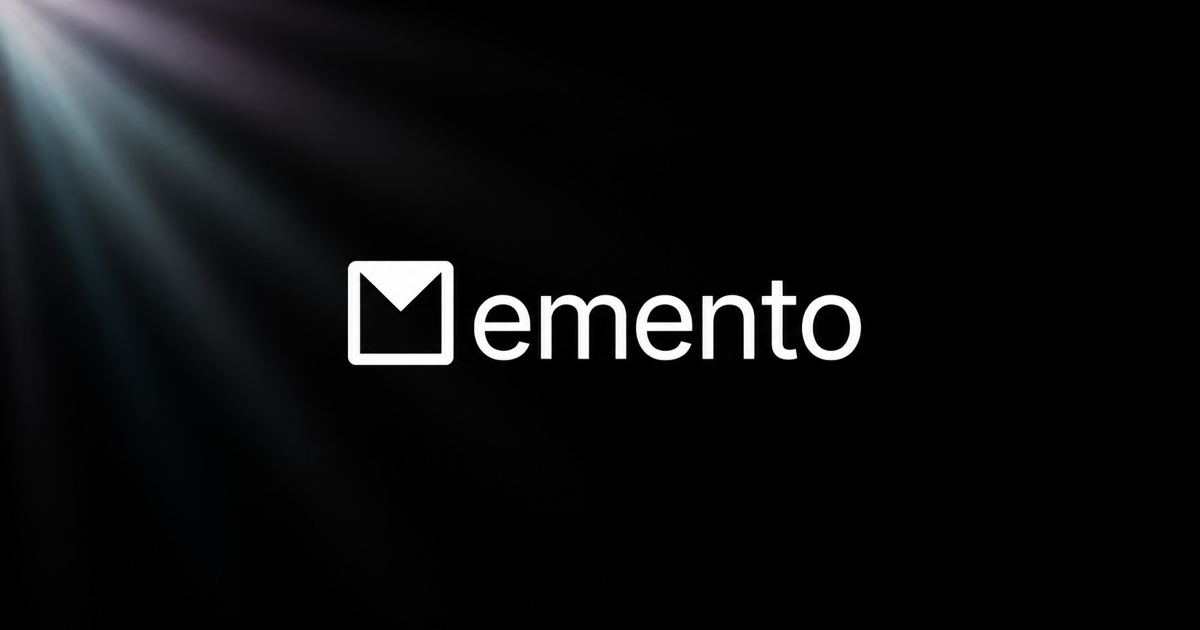
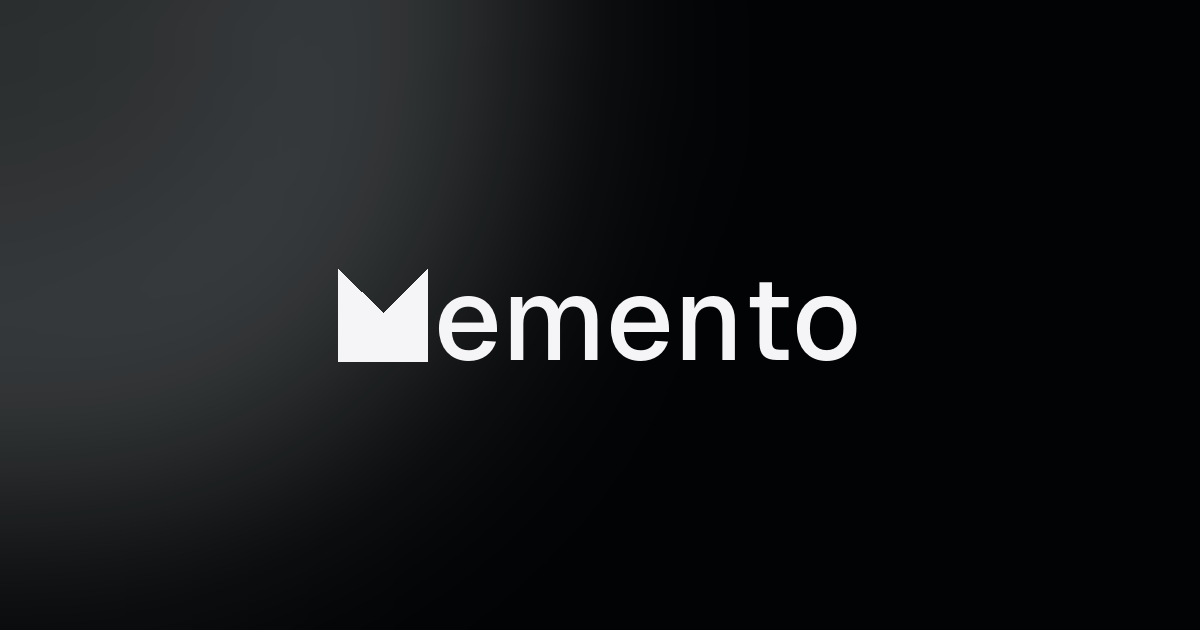
The bare M: hero logotype + og-image (the boxed mark read as an envelope)

Changed region(s): [[0.0, 0.0, 0.74, 0.8746]]

diff --git a/index.html b/index.html
@@ -556,7 +556,7 @@ section{ padding:64px 0; }
   <!-- ============ THE FOLD: wordmark, the real Memento card, signup ============ -->
   <header class="fold">
     <h1 class="hero__mark" aria-label="Memento">
-      <svg class="hero__mark-icon" viewBox="0 0 512 512" aria-hidden="true" focusable="false"><rect width="512" height="512" rx="44" fill="#f5f5f7"/><path d="M62 55 L256 249 L450 55 L450 457 L62 457 Z" fill="#040406"/></svg><span class="hero__mark-word" aria-hidden="true">emento</span>
+      <svg class="hero__mark-icon" viewBox="42 40 428 432" aria-hidden="true" focusable="false"><path d="M62 55 L256 249 L450 55 L450 457 L62 457 Z" fill="#f5f5f7"/></svg><span class="hero__mark-word" aria-hidden="true">emento</span>
     </h1>
     <div class="hero__soon hero__soon--fold">Currently in private testing. Coming soon...</div>
     <div class="tease-stage" aria-hidden="true">
